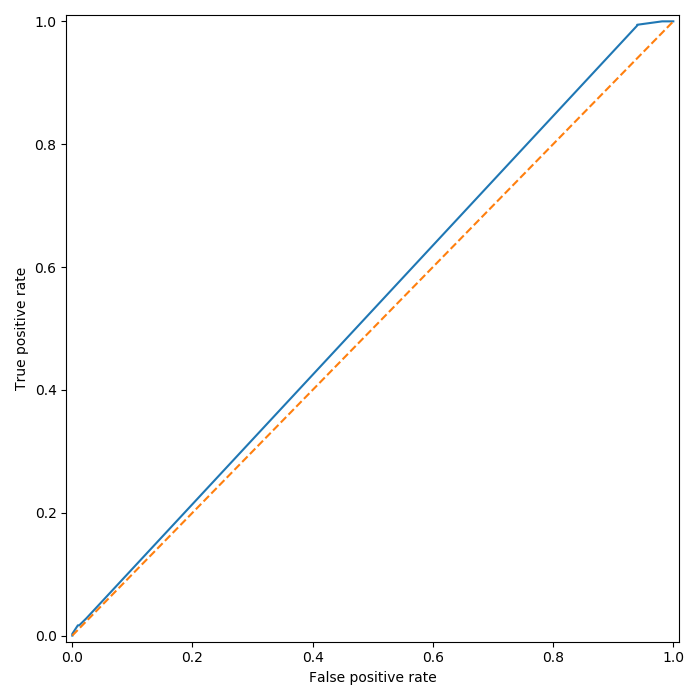
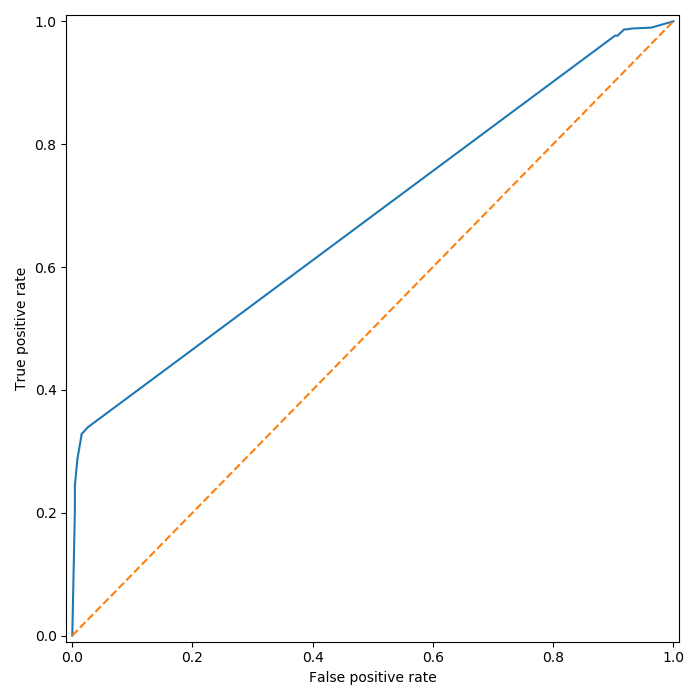
task3 plots

diff --git a/task3_tree/main.py b/task3_tree/main.py
@@ -5,7 +5,7 @@ from task3_tree.draw import plot_roc_curve, draw_tree
 from task3_tree.tree import DecisionTreeClassifier
 
 X_train, X_test, y_train, y_test = train_test_split(*read_spam_dataset())
-tree = DecisionTreeClassifier(max_depth=6, min_samples_leaf=20)
+tree = DecisionTreeClassifier(max_depth=15, min_samples_leaf=10)
 tree.fit(X_train, y_train)
 print(f"train accuracy={sum(t == p for t, p in zip(tree.predict(X_train), y_train)) / len(y_train)}")
 print(f"test accuracy={sum(t == p for t, p in zip(tree.predict(X_test), y_test)) / len(y_test)}")
